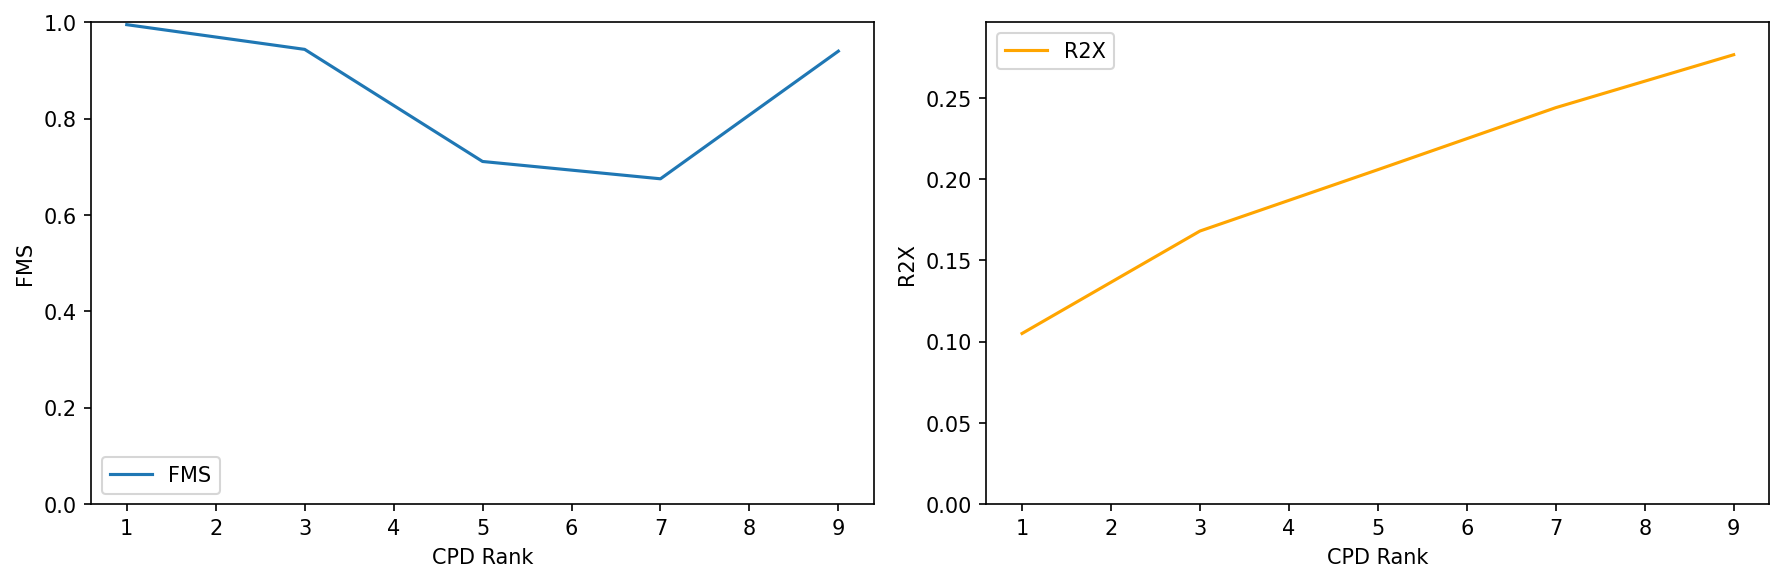
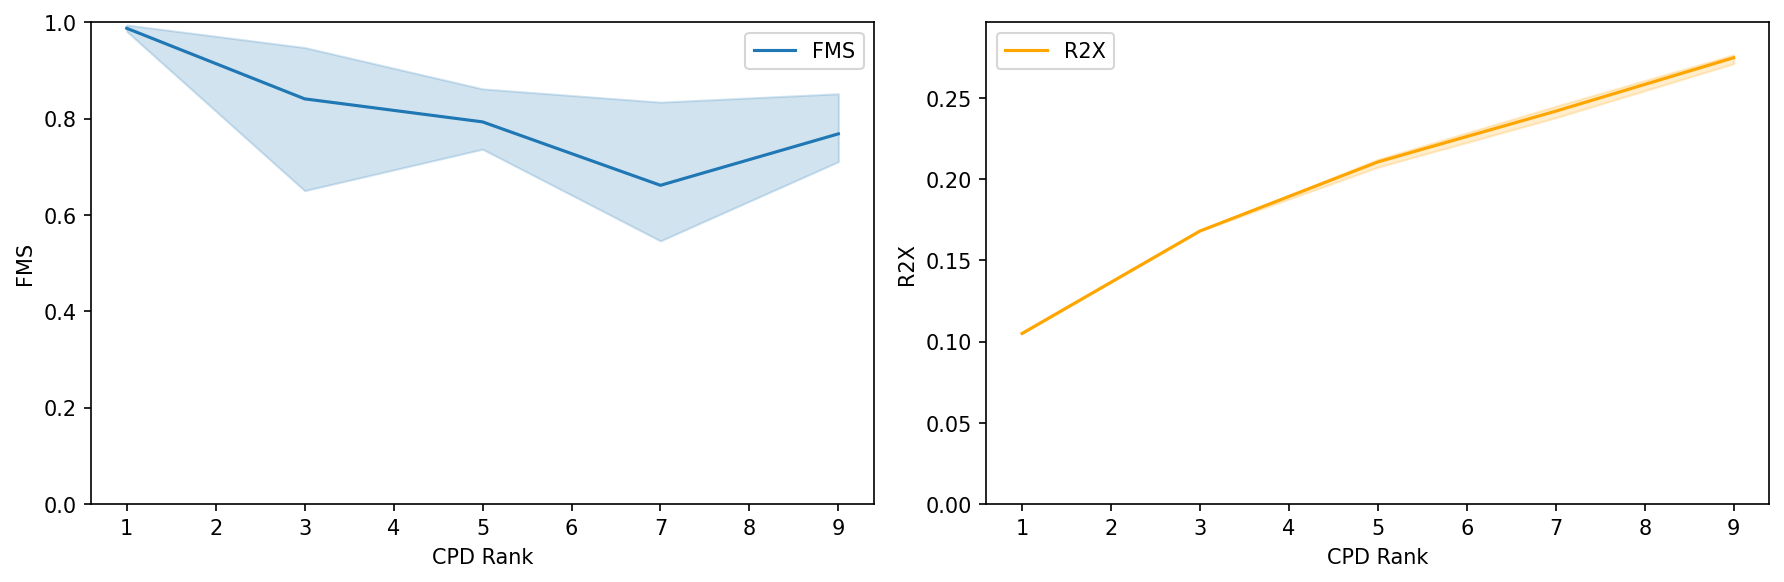
Update choosing rank

Changed region(s): [[0.0617, 0.0309, 0.4933, 0.4021], [0.6783, 0.0928, 0.9865, 0.4021], [0.0617, 0.7732, 0.1233, 0.866]]

diff --git a/docs/generate_tutorial_figures.py b/docs/generate_tutorial_figures.py
@@ -52,7 +52,7 @@ print("\n=== RISE Rank Selection ===")
 print("Running RISE FMS/R2X analysis...")
 # Use actual RISE rank selection with plot_fms_r2x_diff_ranks
 rise_ranks = list(range(5, 41, 5))
-runs = 1
+runs = 3
 
 fig, ax = plt.subplots(1, 2, figsize=(12, 4))
 
@@ -86,7 +86,7 @@ print(f"Interaction tensor shape: {interaction_tensor.shape}")
 
 # Run actual CPD FMS/R2X analysis
 rank_list = list(range(1, 11, 2))
-runs = 1
+runs = 3
 print(f"Testing CPD ranks: {rank_list}, {runs} runs...")
 df = run_fms_r2x_analysis(
     interaction_tensor,

diff --git a/docs/tutorial.rst b/docs/tutorial.rst
@@ -116,7 +116,7 @@ Test different RISE ranks to find the optimal balance between model complexity a
         ax1=ax[0], 
         ax2=ax[1], 
         ranksList=rise_ranks, 
-        runs=1
+        runs=e
     )
     
     ax[0].set_title('RISE: Factor Match Score (FMS)')
@@ -160,7 +160,7 @@ First, calculate the interaction tensor using a selected RISE rank, then test di
     df = run_fms_r2x_analysis(
         interaction_tensor, 
         rank_list=rank_list, 
-        runs=1,
+        runs=3,
         svd_init="random"
     )
     
